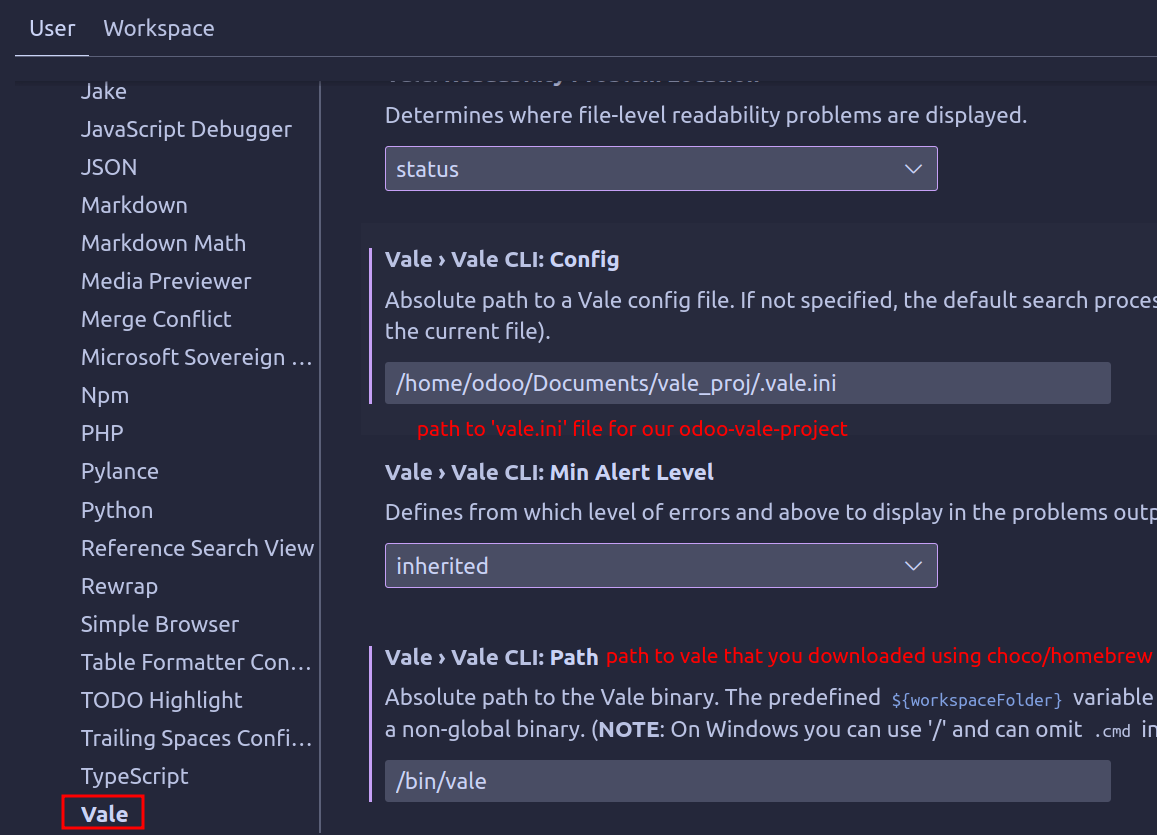
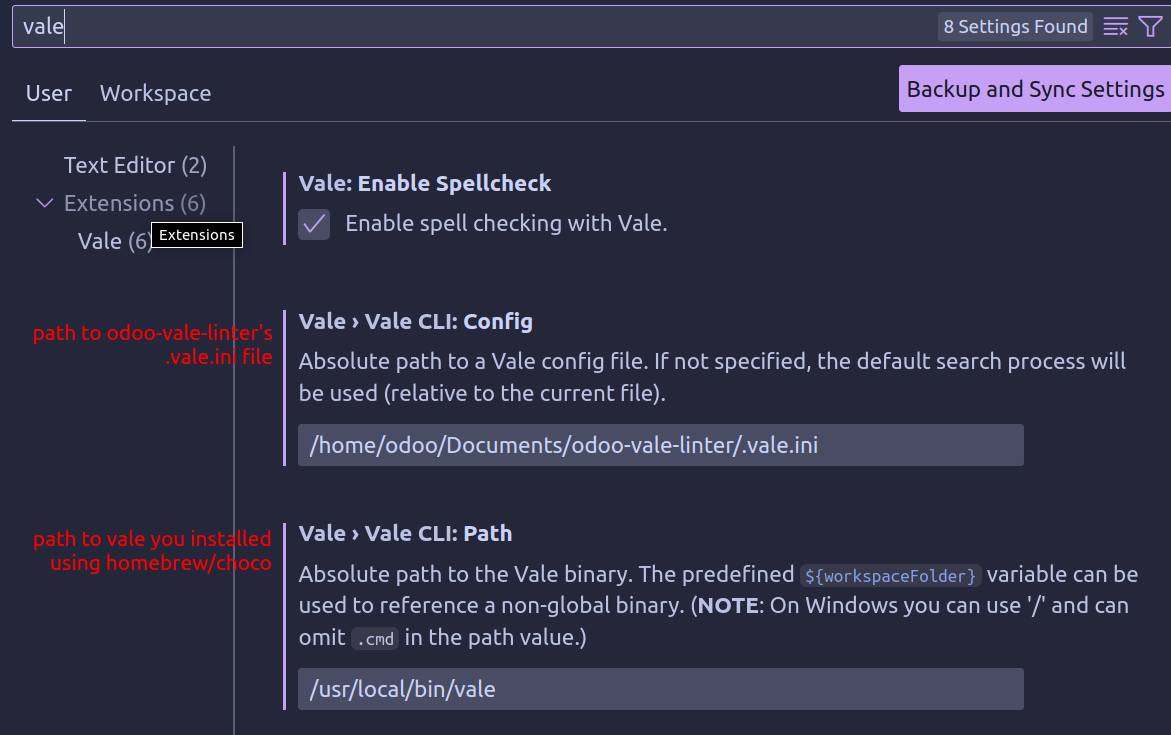
[FIX] update instructions for linux (vale 3.0.5) (#14)
* update instructions for linux

* add cd instruction

Changed region(s): [[0.0, 0.0, 1.0, 1.0], [0.0933, 0.0299, 0.1867, 0.0599]]

diff --git a/README.md b/README.md
@@ -73,27 +73,32 @@ vale --version
 Next, navigate to your `/github` folder using the `cd <path>` command to change your active directory. Once in `/github`, clone this repository to your local machine with the following command:
 
 ```shell
-git clone git@github.com:Felicious/odoo-vale-linter.git
+git clone https://github.com/Felicious/odoo-vale-linter.git
 ```
 
 With the repository cloned, proceed to the [Add as VS Code extension](#add-as-vs-code-extension) section.
 
 ### Linux
-1. Open terminal and `cd` to the folder you intend to store the vale project.
-2. Download the [project](https://github.com/Felicious/odoo-vale-linter) by typing:
+1. Open terminal and go to your `/github` folder using the `cd <path>` command to change your active directory.
+2. Once in `/github`, clone this [repository](https://github.com/Felicious/odoo-vale-linter) to your local machine by typing:
    ```shell
    git clone git@github.com:Felicious/odoo-vale-linter.git
    ```
-3. Next, run a script to automatically download Vale, and type your password for your laptop when prompted.
+3. Next, `cd` to `github/odoo-vale-linter`, run the following code, and enter your password when prompted:
    ```shell
    ./install.sh
    ```
    ![linux successful install](/screenshots/linux-install.png)
+> ℹ Tip:</br>
+> When typing your password, the terminal doesn't show anything you type, including ***.
+
 4. Once you're done, check Vale is correctly installed by typing:
    ```shell
-   vale
+   vale --version
    ```
 ![vale prompt](/screenshots/vale-success-msg.png)
+
+It should display "version 3.0.5".
 
 ## Update
 
@@ -103,7 +108,7 @@ To update Vale, run the following command in the terminal depending on your oper
 
 - Mac: `brew upgrade vale`
 - Windows: `choco upgrade vale`
-- Linux:
+- Linux: `./install.sh`
 
 To update to the latest changes from this repository, simply pull the latest changes from the `master` branch by navigating to the **odoo-vale-linter** project folder in the terminal, and running the following command:
 
@@ -126,6 +131,12 @@ To do so, open the VS Code **Settings** and search for `Vale`. In the **User** t
 > ![copy path](/screenshots/vale-path.png)
 
 Be sure to also select the **Enable Spellcheck** option in the **Vale Settings**, as well as set the **Readability Problem Location** field to **Both**.
+
+Then, enter the absolute path of Vale in the **Vale CLI: Path** field.
+
+> ℹ Tip:</br>
+> To get the absolute path of vale on a Linux or Mac OS, type `which vale` in terminal and copy the result.</br>
+> ![which vale](/screenshots/which-vale.png)
 
 With these settings, the **Vale VSCode** extension should now be configured and ready [to use](#to-use) with the **odoo-vale-linter** project to lint prose on RST files.
 
